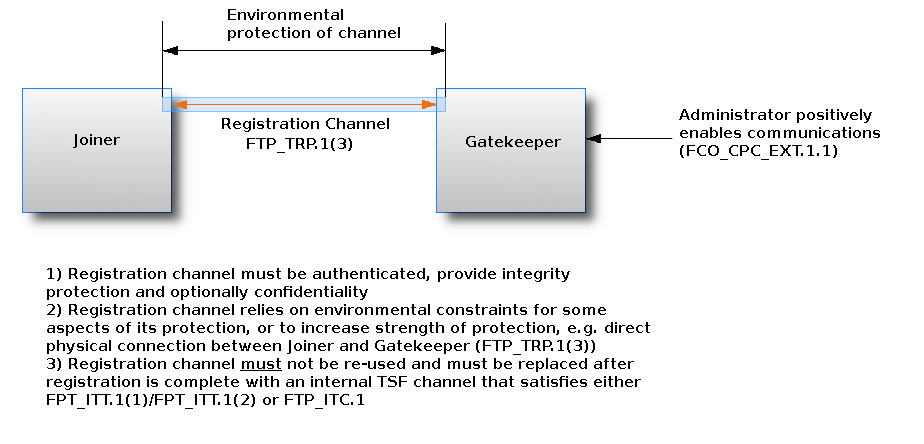
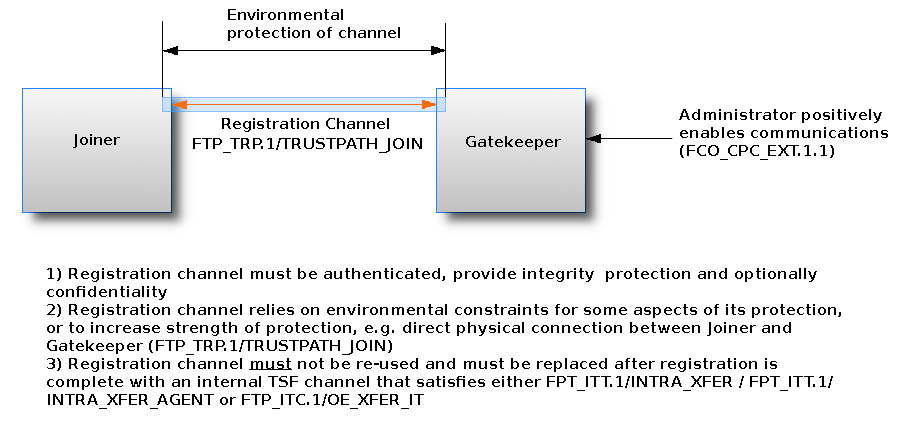
Deploying to gh-pages from @ commoncriteria/mdm@a082d3fb623387c576b53086d38cbc42bd92bebe 🚀

Changed region(s): [[0.0303, 0.5856, 0.9091, 0.9077], [0.7576, 0.2342, 0.9697, 0.3514], [0.2121, 0.2928, 0.4545, 0.3514]]

diff --git a/index.html b/index.html
@@ -1,5 +1,5 @@
 <html><head><title>Listing</title></head><body>
-Wed May 13 17:08:01 UTC 2026
+Wed May 13 17:24:09 UTC 2026
 <br/><ol>
 <li><a href='.'>.</a></li>
 <li><a href='./test/meta-info.txt'>./test/meta-info.txt</a></li>
@@ -291,9 +291,9 @@ Wed May 13 17:08:01 UTC 2026
 <li><a href='./subordinateMDM/css/diff.css'>./subordinateMDM/css/diff.css</a></li>
 <li><a href='./subordinateMDM/spell-badge.svg'>./subordinateMDM/spell-badge.svg</a></li>
 <li><a href='./.git'>./.git</a></li>
-<li><a href='./.git/objects/pack/pack-335af7980486d88b3346a4fb722d7701fdea0d1c.rev'>./.git/objects/pack/pack-335af7980486d88b3346a4fb722d7701fdea0d1c.rev</a></li>
-<li><a href='./.git/objects/pack/pack-335af7980486d88b3346a4fb722d7701fdea0d1c.pack'>./.git/objects/pack/pack-335af7980486d88b3346a4fb722d7701fdea0d1c.pack</a></li>
-<li><a href='./.git/objects/pack/pack-335af7980486d88b3346a4fb722d7701fdea0d1c.idx'>./.git/objects/pack/pack-335af7980486d88b3346a4fb722d7701fdea0d1c.idx</a></li>
+<li><a href='./.git/objects/pack/pack-9f84594a126c2a0cc06d85eebf9a8ba8796a546d.pack'>./.git/objects/pack/pack-9f84594a126c2a0cc06d85eebf9a8ba8796a546d.pack</a></li>
+<li><a href='./.git/objects/pack/pack-9f84594a126c2a0cc06d85eebf9a8ba8796a546d.idx'>./.git/objects/pack/pack-9f84594a126c2a0cc06d85eebf9a8ba8796a546d.idx</a></li>
+<li><a href='./.git/objects/pack/pack-9f84594a126c2a0cc06d85eebf9a8ba8796a546d.rev'>./.git/objects/pack/pack-9f84594a126c2a0cc06d85eebf9a8ba8796a546d.rev</a></li>
 <li><a href='./.git/hooks/pre-push.sample'>./.git/hooks/pre-push.sample</a></li>
 <li><a href='./.git/hooks/pre-receive.sample'>./.git/hooks/pre-receive.sample</a></li>
 <li><a href='./.git/hooks/pre-merge-commit.sample'>./.git/hooks/pre-merge-commit.sample</a></li>